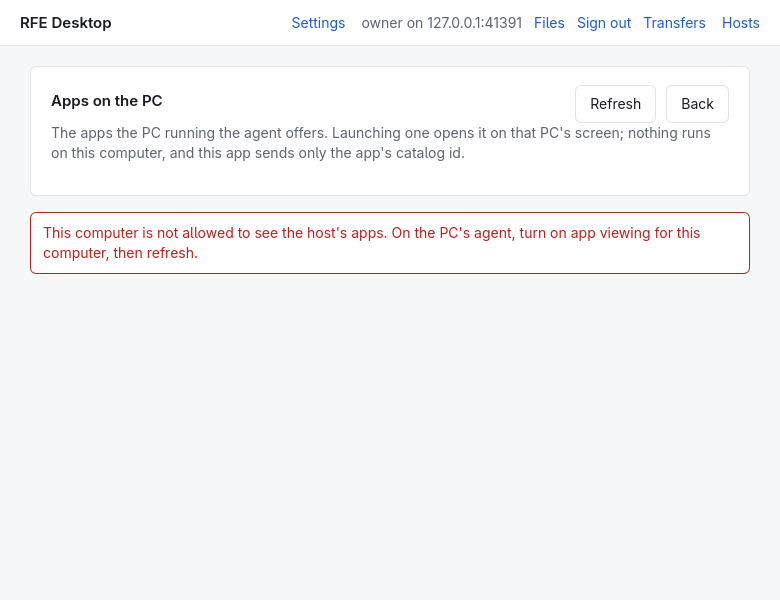
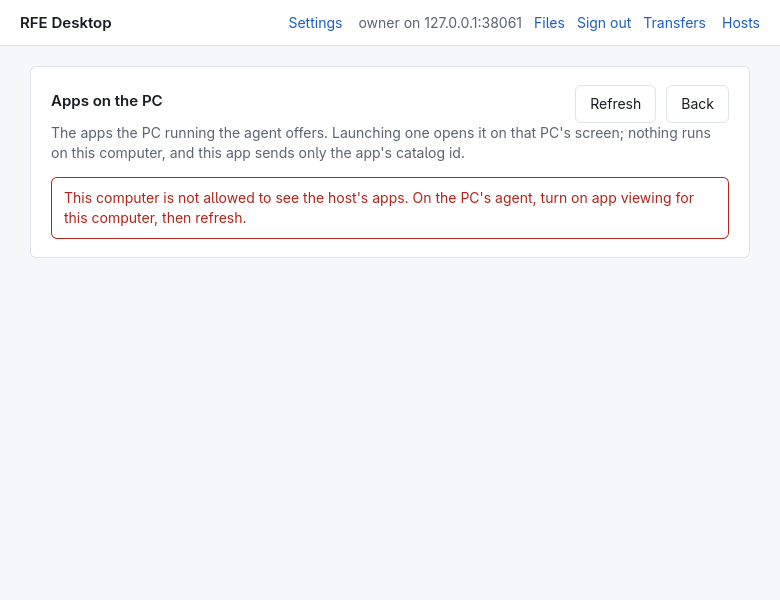
fix(desktop): devices table fits the window, message inside its panel, consistent wording; fresh screenshots

Changed region(s): [[0.0308, 0.3, 0.8923, 0.45], [0.3692, 0.03, 0.6769, 0.06]]

diff --git a/desktop/ui/index.html b/desktop/ui/index.html
@@ -504,17 +504,17 @@
 
       <h3>Download a file</h3>
       <form id="download-form">
-        <label for="download-path">Path of the file on the computer</label>
-        <input id="download-path" name="download-path" autocomplete="off" spellcheck="false" placeholder="/home/me/report.pdf" required>
+        <label for="download-path">Path of the file on the PC</label>
+        <input id="download-path" name="download-path" autocomplete="off" spellcheck="false" placeholder="/home/user/report.pdf" required>
         <div class="row pad"><button type="submit" class="primary">Download</button></div>
       </form>
 
       <h3>Upload a file</h3>
       <form id="upload-form">
         <label for="upload-path">Full path of the file on this computer</label>
-        <input id="upload-path" name="upload-path" autocomplete="off" spellcheck="false" placeholder="/home/you/Documents/report.pdf" required>
-        <label for="upload-dir">Folder on the computer to put it in</label>
-        <input id="upload-dir" name="upload-dir" autocomplete="off" spellcheck="false" placeholder="/home/me/Documents" required>
+        <input id="upload-path" name="upload-path" autocomplete="off" spellcheck="false" placeholder="/home/user/Documents/report.pdf" required>
+        <label for="upload-dir">Folder on the PC to put it in</label>
+        <input id="upload-dir" name="upload-dir" autocomplete="off" spellcheck="false" placeholder="/home/user/Documents" required>
         <div class="row pad"><button type="submit" class="primary">Upload</button></div>
       </form>
 

diff --git a/desktop/ui/style.css b/desktop/ui/style.css
@@ -81,6 +81,8 @@ tr:last-child td { border-bottom: 0; }
 .warn { color: var(--danger); border: 1px solid var(--danger); border-radius: var(--radius); padding: 10px 12px; margin: 0 0 14px; }
 .message { padding: 10px 12px; border-radius: var(--radius); border: 1px solid var(--line); background: var(--surface); }
 .message.error { color: var(--danger); border-color: var(--danger); }
+.panel > .message { margin: 14px 0 0; }
+.row.pad + .hint { margin-top: 14px; }
 
 .code { font-size: 32px; letter-spacing: 3px; margin: 8px 0 14px; }
 
@@ -134,6 +136,9 @@ label.inline { display: inline; margin: 0; font-weight: 400; }
 
 /* feature:device-actions */
 .da-actions { display: flex; gap: 14px; align-items: center; }
+/* The 760px column cannot hold six nowrap columns plus three buttons: the data wraps, the buttons do not. */
+#devices td { white-space: normal; overflow-wrap: break-word; }
+#devices td:nth-child(n+4) { white-space: nowrap; }
 button.da-danger { color: var(--danger); }
 button.da-danger.armed { background: var(--danger); color: var(--surface); padding: 2px 8px; border: 1px solid var(--danger); border-radius: var(--radius); }
 .da-editor { border-top: 1px solid var(--line); margin-top: 14px; padding-top: 4px; }

diff --git a/desktop/ui/app.js b/desktop/ui/app.js
@@ -14,6 +14,15 @@
     // goes to the new screen's heading, which is read out.
     const title = $(step.replace("step-", "title-"));
     if (title) title.focus();
+    placeMessage();
+  }
+
+  // The message line lives at the end of the screen being shown, so a refusal or result appears
+  // inside the panel the user is looking at, not below it where a long list can push it off screen.
+  function placeMessage() {
+    const el = $("message");
+    const panel = steps.map($).find((p) => !p.hidden);
+    if (panel && el.parentNode !== panel) panel.append(el);
   }
 
   function say(text, isError) {
@@ -23,6 +32,7 @@
     el.classList.toggle("error", !!isError);
     // An error interrupts a screen reader; progress and results wait their turn.
     el.setAttribute("role", isError ? "alert" : "status");
+    placeMessage();
   }
 
   function submitter(ev) {
